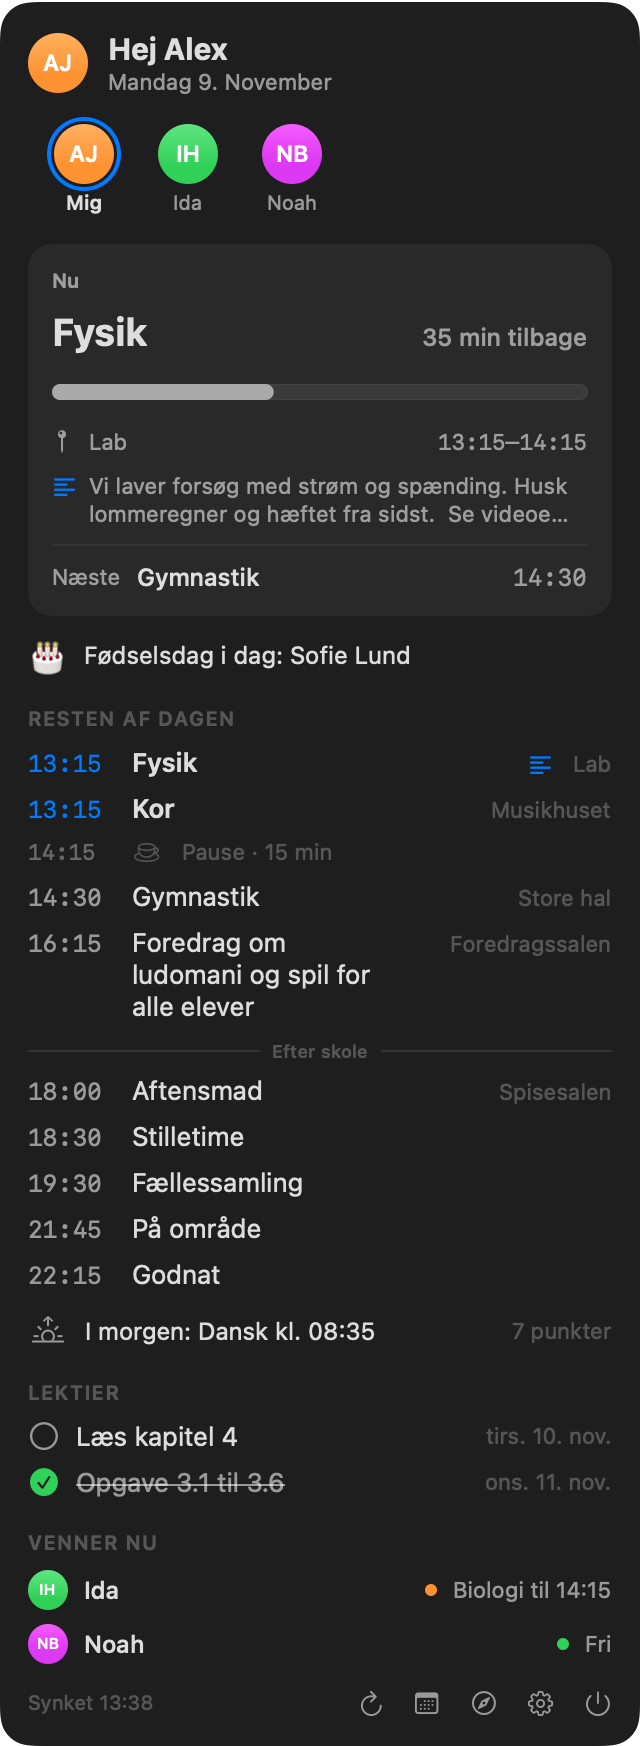
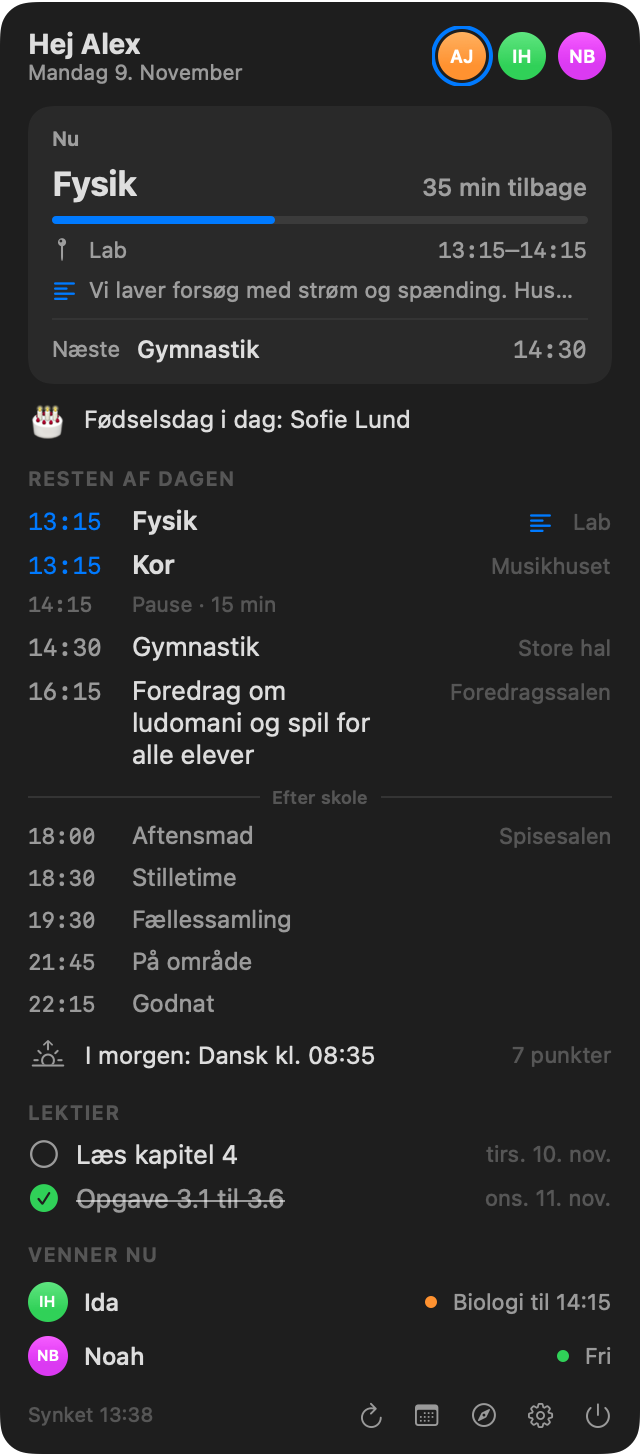
Mere kompakt panel: venner i toppen, strammere Nu-kort og roligere aften

diff --git a/Sources/Views.swift b/Sources/Views.swift
@@ -107,15 +107,17 @@ struct TimelineRow: View {
         let current = e.start <= now && e.end > now
         let mins = Int(e.end.timeIntervalSince(e.start) / 60)
         return HStack(spacing: 10) {
-            Text(DateUtil.hm(e.start)).font(Sz.mono(11))
+            Text(DateUtil.hm(e.start)).font(Sz.mono(10.5))
                 .foregroundStyle(current ? Color.accentColor : Color.secondary.opacity(0.6))
                 .frame(width: 42 * Sz.k, alignment: .leading)
-            Image(systemName: "cup.and.saucer").font(Sz.f(10)).foregroundStyle(.tertiary)
-            Text("Pause · \(mins) min").font(Sz.f(11, current ? .semibold : .regular)).foregroundStyle(current ? .secondary : .tertiary)
+            Text("Pause · \(mins) min").font(Sz.f(10.5, current ? .semibold : .regular)).foregroundStyle(current ? .secondary : .tertiary)
             Spacer()
         }
         .opacity(e.end <= now ? 0.35 : 1)
     }
+
+    /// Everyday routines (aftensmad, godnat) are shown a little smaller, so the lessons stand out.
+    private var quiet: Bool { e.kind == .routine }
 
     private var row: some View {
         let current = e.start <= now && e.end > now
@@ -131,14 +133,15 @@ struct TimelineRow: View {
             }
             HStack(alignment: .firstTextBaseline, spacing: 10) {
                 Text(DateUtil.hm(e.start))
-                    .font(Sz.mono(12))
+                    .font(Sz.mono(quiet ? 11 : 12))
                     .foregroundStyle(current ? Color.accentColor : .secondary)
                     .frame(width: 42 * Sz.k, alignment: .leading)
                 if let c = e.customColor ?? (e.kind == .custom ? Color.green : nil) {
                     RoundedRectangle(cornerRadius: 1.5).fill(c).frame(width: 3, height: 13 * Sz.k)
                 }
                 Text(e.shortTitle)
-                    .font(Sz.f(13, current ? .semibold : .regular))
+                    .font(Sz.f(quiet ? 12 : 13, current ? .semibold : .regular))
+                    .foregroundStyle(quiet && !current ? .secondary : .primary)
                     .lineLimit(3)
                     .fixedSize(horizontal: false, vertical: true)
                     .layoutPriority(1)
@@ -171,17 +174,21 @@ struct NowCard: View {
     }
 
     var body: some View {
-        VStack(alignment: .leading, spacing: 8) {
+        VStack(alignment: .leading, spacing: 6) {
             if let c = current {
                 Text(name.map { "\($0) har nu" } ?? "Nu").font(Sz.f(10, .semibold)).foregroundStyle(.secondary)
                 HStack(alignment: .firstTextBaseline) {
-                    Text(c.shortTitle).font(Sz.f(19, .bold)).lineLimit(3).fixedSize(horizontal: false, vertical: true)
+                    Text(c.shortTitle).font(Sz.f(17, .bold)).lineLimit(3).fixedSize(horizontal: false, vertical: true)
                     Spacer()
                     Text("\(mins(now, c.end)) tilbage").font(Sz.f(12, .medium)).foregroundStyle(.secondary).fixedSize()
                         .contentTransition(.numericText(countsDown: true))
                 }
-                ProgressView(value: min(1, max(0, now.timeIntervalSince(c.start) / max(1, c.end.timeIntervalSince(c.start)))))
-                    .progressViewStyle(.linear).tint(.accentColor)
+                let frac = min(1, max(0, now.timeIntervalSince(c.start) / max(1, c.end.timeIntervalSince(c.start))))
+                Capsule().fill(.primary.opacity(0.1)).frame(height: 4)
+                    .overlay(alignment: .leading) {
+                        GeometryReader { g in Capsule().fill(Color.accentColor).frame(width: g.size.width * frac) }
+                    }
+                    .clipShape(Capsule())
                     .animation(.easeInOut(duration: 0.6), value: now)
                 HStack {
                     if !c.room.isEmpty { Label(c.room, systemImage: "mappin").font(Sz.f(11)).foregroundStyle(.secondary) }
@@ -191,7 +198,7 @@ struct NowCard: View {
             } else if let n = next {
                 Text(name.map { "\($0) er fri" } ?? "Fri").font(Sz.f(10, .semibold)).foregroundStyle(.secondary)
                 HStack(alignment: .firstTextBaseline) {
-                    Text(n.shortTitle).font(Sz.f(19, .bold)).lineLimit(3).fixedSize(horizontal: false, vertical: true)
+                    Text(n.shortTitle).font(Sz.f(17, .bold)).lineLimit(3).fixedSize(horizontal: false, vertical: true)
                     Spacer()
                     Text("om \(mins(now, n.start))").font(Sz.f(12, .medium)).foregroundStyle(.secondary).fixedSize()
                         .contentTransition(.numericText(countsDown: true))
@@ -206,7 +213,7 @@ struct NowCard: View {
                         Image(systemName: "text.alignleft").font(Sz.f(10, .bold)).foregroundStyle(Color.accentColor)
                             .padding(.top, 2)
                         Text(info.notes.replacingOccurrences(of: "\n", with: " "))
-                            .font(Sz.f(11)).foregroundStyle(.secondary).lineLimit(2)
+                            .font(Sz.f(11)).foregroundStyle(.secondary).lineLimit(1)
                             .multilineTextAlignment(.leading)
                         Spacer(minLength: 0)
                     }
@@ -216,7 +223,7 @@ struct NowCard: View {
                 .help("Se info fra læreren")
             }
             if current != nil, let n = next {
-                Divider().opacity(0.5)
+                Divider().opacity(0.5).padding(.vertical, 1)
                 HStack {
                     Text("Næste").font(Sz.f(11)).foregroundStyle(.secondary)
                     Text(n.shortTitle).font(Sz.f(12, .medium)).lineLimit(2).fixedSize(horizontal: false, vertical: true)
@@ -225,7 +232,7 @@ struct NowCard: View {
                 }
             }
         }
-        .padding(12)
+        .padding(.horizontal, 12).padding(.vertical, 10)
         .background(RoundedRectangle(cornerRadius: 12, style: .continuous).fill(.primary.opacity(0.06)))
         .animation(.viggo, value: now)
         .animation(.viggo, value: current?.id)
@@ -242,8 +249,7 @@ struct PersonChip: View {
     let action: () -> Void
     var body: some View {
         Button(action: action) {
-            VStack(spacing: 3) {
-                Avatar(url: url, size: 30, name: fullName)
+            Avatar(url: url, size: 24, name: fullName)
                     .overlay {
                         if selected {
                             if let ring {
@@ -256,15 +262,13 @@ struct PersonChip: View {
                     }
                     .opacity(expired ? 0.4 : 1)
                     .overlay(alignment: .topTrailing) {
-                        if expired { Circle().fill(.orange).frame(width: 9, height: 9).overlay(Circle().stroke(.background, lineWidth: 1.5)) }
+                        if expired { Circle().fill(.orange).frame(width: 8, height: 8).overlay(Circle().stroke(.background, lineWidth: 1.5)) }
                     }
-                Text(label).font(.system(size: 10, weight: selected ? .semibold : .regular))
-                    .foregroundStyle(selected ? .primary : .secondary).lineLimit(1)
-            }
-            .frame(width: 48)
-            .contentShape(Rectangle())
+                    .padding(3)
+                    .contentShape(Circle())
         }
         .buttonStyle(PressScale())
+        .help(fullName ?? label)
     }
 }
 
@@ -276,17 +280,36 @@ struct MenuView: View {
     @ObservedObject var updater = Updater.shared
     @Namespace private var ring
 
+    private var headerTitle: String {
+        if let fid = state.selectedFriend, let f = state.friends.first(where: { $0.id == fid }) { return f.name }
+        return state.profile.map { "Hej \($0.name.components(separatedBy: " ").first ?? $0.name)" } ?? "Viggo+"
+    }
+
     var body: some View {
         let now = state.tick
         VStack(alignment: .leading, spacing: 10) {
-            HStack(spacing: 10) {
-                if let prof = state.profile { Avatar(url: prof.image, size: 30, name: prof.name) }
+            HStack(spacing: 8) {
+                if state.friends.isEmpty, let prof = state.profile { Avatar(url: prof.image, size: 26, name: prof.name) }
                 VStack(alignment: .leading, spacing: 0) {
-                    Text(state.profile.map { "Hej \($0.name.components(separatedBy: " ").first ?? $0.name)" } ?? "Viggo+")
-                        .font(Sz.f(15, .bold))
-                    Text(DateUtil.longDayF.string(from: now).capitalized).font(Sz.f(11)).foregroundStyle(.secondary)
+                    Text(headerTitle).font(Sz.f(14, .bold)).lineLimit(1)
+                        .contentTransition(.opacity)
+                    Text(DateUtil.longDayF.string(from: now).capitalized).font(Sz.f(10.5)).foregroundStyle(.secondary)
                 }
-                Spacer()
+                Spacer(minLength: 6)
+                if !state.friends.isEmpty, updater.available == nil {
+                    ScrollView(.horizontal, showsIndicators: false) {
+                        HStack(spacing: 0) {
+                            PersonChip(ring: ring, url: state.profile?.image, label: "Mig", fullName: state.profile?.name, selected: state.selectedFriend == nil) {
+                                withAnimation(.viggo) { state.selectedFriend = nil }
+                            }
+                            ForEach(state.friends) { f in
+                                PersonChip(ring: ring, url: f.image, label: f.firstName, fullName: f.name, selected: state.selectedFriend == f.id,
+                                           expired: state.friendExpired.contains(f.id)) { withAnimation(.viggo) { state.selectedFriend = f.id } }
+                            }
+                        }
+                    }
+                    .fixedSize(horizontal: state.friends.count <= 4, vertical: false)
+                }
                 if let r = updater.available {
                     Button { updater.show() } label: {
                         Label("Ny version \(r.version)", systemImage: "arrow.down.circle.fill")
@@ -310,9 +333,9 @@ struct MenuView: View {
                 Text(state.status).font(Sz.f(11)).foregroundStyle(.orange).fixedSize(horizontal: false, vertical: true)
             }
 
-            if !state.friends.isEmpty {
+            if !state.friends.isEmpty, updater.available != nil {
                 ScrollView(.horizontal, showsIndicators: false) {
-                    HStack(spacing: 4) {
+                    HStack(spacing: 2) {
                         PersonChip(ring: ring, url: state.profile?.image, label: "Mig", fullName: state.profile?.name, selected: state.selectedFriend == nil) {
                             withAnimation(.viggo) { state.selectedFriend = nil }
                         }
@@ -321,8 +344,6 @@ struct MenuView: View {
                                        expired: state.friendExpired.contains(f.id)) { withAnimation(.viggo) { state.selectedFriend = f.id } }
                         }
                     }
-                    .padding(.horizontal, 4)
-                    .padding(.vertical, 4)
                 }
             }
 
@@ -364,7 +385,7 @@ struct MenuView: View {
         .animation(.viggo, value: state.needsLogin)
         .animation(.viggo, value: updater.available?.version)
         .animation(.viggo, value: state.lastSync)
-        .padding(14)
+        .padding(.horizontal, 14).padding(.vertical, 12)
         .frame(width: 320 * (p.panelLarge ? 1.12 : 1))
     }
 }
@@ -389,7 +410,7 @@ struct DayPanel: View {
         let hasSchool = shown.contains { $0.kind == .lesson || $0.kind == .event }
         let hw = homework.filter { $0.day >= DateUtil.startOfDay(now) }
 
-        VStack(alignment: .leading, spacing: 12) {
+        VStack(alignment: .leading, spacing: 10) {
             if p.panelNow, !events.isEmpty {
                 NowCard(current: current, next: next, now: now, name: name)
             }
@@ -420,7 +441,7 @@ struct DayPanel: View {
             }
 
             if p.panelTimeline, !shown.isEmpty {
-                VStack(alignment: .leading, spacing: 7) {
+                VStack(alignment: .leading, spacing: 6) {
                     SectionHeader(title: name.map { "\($0)s dag" } ?? "Resten af dagen")
                     ForEach(shown) { e in
                         TimelineRow(e: e, now: now, dividerAbove: hasSchool && e.id == firstEvening, tappable: isMe)
@@ -446,7 +467,7 @@ struct DayPanel: View {
             }
 
             if p.panelHomework, !hw.isEmpty {
-                VStack(alignment: .leading, spacing: 7) {
+                VStack(alignment: .leading, spacing: 6) {
                     SectionHeader(title: "Lektier")
                     ForEach(hw.prefix(5)) { h in
                         HStack(spacing: 8) {

diff --git a/CHANGELOG.md b/CHANGELOG.md
@@ -6,6 +6,7 @@
 - **Pauser mellem timerne**: pauserne mellem klassens timer står i panelet og uge-overblikket (ikke ved valgfag og linjefag). Kan slås fra under Indstillinger › Panel. Under Indstillinger › Menubar kan du også få pausen vist i menubaren, fx "Pause → 09:55".
 - **Uge-overblikket** viser også middag og pauser (grå) og dine egne punkter (grønne).
 - **Egne punkter**: tilføj frokost, træning, lektier og andet under Indstillinger › Egne punkter, med tidspunkt og hvilke dage. De står i panelet med en grøn streg og i menubaren, fx "Frokost 12:00".
+- **Mere kompakt panel**: dig og dine venner sidder nu som små billeder oppe i toppen ved siden af navnet, Nu-kortet er strammet op, og aftenens faste punkter står lidt mindre, så timerne træder frem. Panelet fylder ca. en sjettedel mindre.
 - **Små animationer**: lektier hopper når du krydser af, minutterne ruller på Nu-kortet, ringen glider hen til den ven du vælger, og dagen tones ind. Synk-pilen drejer mens den henter, og knapperne giver lidt efter når du trykker.
 - I indstillingerne glider markeringen i siden med, og siderne tones ind.
 - **Login-kort**: når Viggo+ logger dig eller en ven ind, viser et kort hvor langt login er nået (Viggo, UNI-Login, SkoleIT), med en lås der bliver til et grønt skjold når det lykkes.
